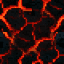
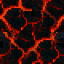
Install quality-pass monsters, tiles and map objects; tile installer applies brief lift

diff --git a/tools/content/genart/install_tiles.py b/tools/content/genart/install_tiles.py
@@ -44,15 +44,16 @@ def main():
             continue
         pic = Image.open(os.path.join(GEN, 'objects', oid, f"c{v['pick']}_pixel.png"))
         key = briefs[oid].get('key', 'magenta')
+        glow = float(briefs[oid].get('lift', 1.0))      # the brief's brightening, as the pipeline cuts it
         rule = ON_FLOOR.get(oid) or (TRAP if oid.startswith('trap_') else None)
         if rule:
             size, under, lift = rule
-            spr, _ = convert.to_sprite(pic, key, tile=size)
+            spr, _ = convert.to_sprite(pic, key, tile=size, lift=glow)
             tile = (dark if under == 'dark' else floor).copy()
             tile.alpha_composite(spr, ((T - size) // 2, T - size - lift))
             tile.save(os.path.join(env, oid + '.png')); out['env'].append(oid)
         else:
-            spr, _ = convert.to_sprite(pic, key, tile=T)
+            spr, _ = convert.to_sprite(pic, key, tile=T, lift=glow)
             spr.save(os.path.join(items, oid + '.png')); out['items'].append(oid)
     if os.path.abspath(a.to) == os.path.abspath(ROOT):
         json.dump(out, open(os.path.join(HERE, 'installed_tiles.json'), 'w', encoding='utf-8'), indent=0)
